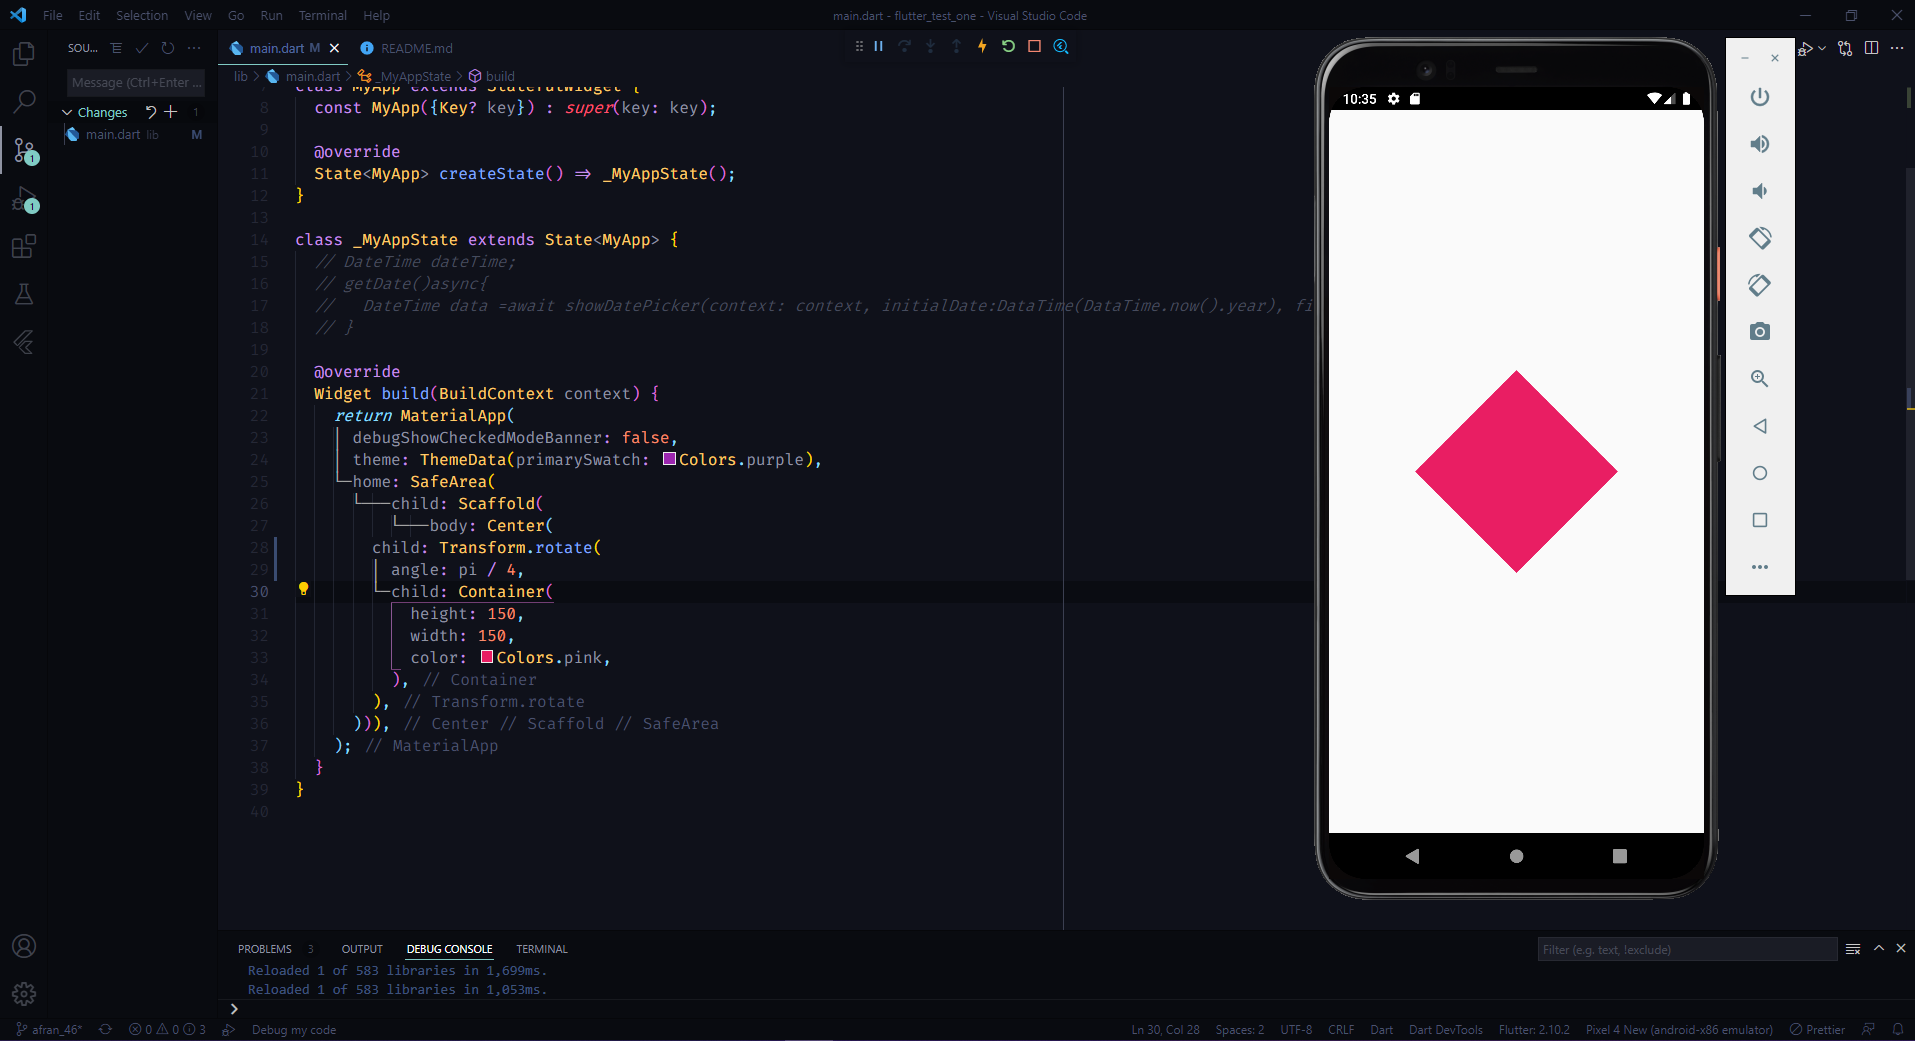
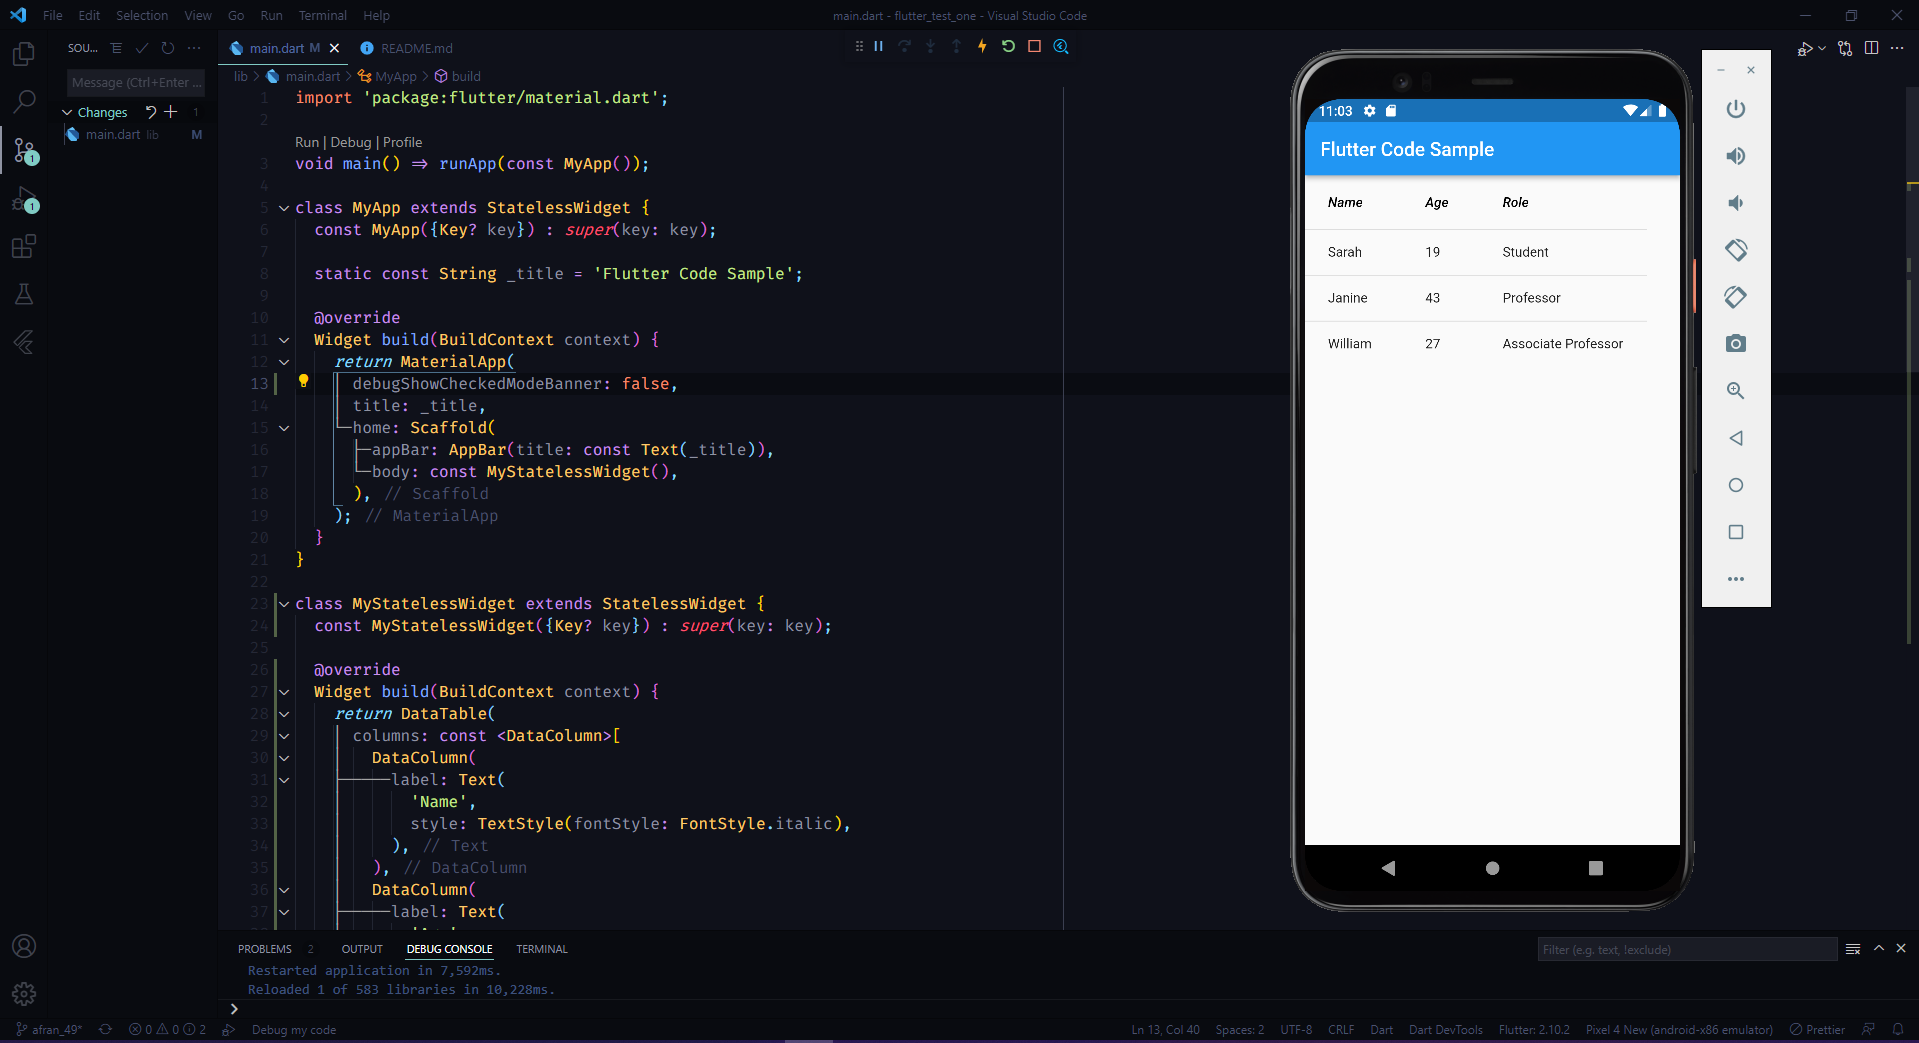
3.12

diff --git a/lib/main.dart b/lib/main.dart
@@ -10,6 +10,7 @@ class MyApp extends StatelessWidget {
   @override
   Widget build(BuildContext context) {
     return MaterialApp(
+      debugShowCheckedModeBanner: false,
       title: _title,
       home: Scaffold(
         appBar: AppBar(title: const Text(_title)),
@@ -19,4 +20,55 @@ class MyApp extends StatelessWidget {
   }
 }
 
+class MyStatelessWidget extends StatelessWidget {
+  const MyStatelessWidget({Key? key}) : super(key: key);
 
+  @override
+  Widget build(BuildContext context) {
+    return DataTable(
+      columns: const <DataColumn>[
+        DataColumn(
+          label: Text(
+            'Name',
+            style: TextStyle(fontStyle: FontStyle.italic),
+          ),
+        ),
+        DataColumn(
+          label: Text(
+            'Age',
+            style: TextStyle(fontStyle: FontStyle.italic),
+          ),
+        ),
+        DataColumn(
+          label: Text(
+            'Role',
+            style: TextStyle(fontStyle: FontStyle.italic),
+          ),
+        ),
+      ],
+      rows: const <DataRow>[
+        DataRow(
+          cells: <DataCell>[
+            DataCell(Text('Sarah')),
+            DataCell(Text('19')),
+            DataCell(Text('Student')),
+          ],
+        ),
+        DataRow(
+          cells: <DataCell>[
+            DataCell(Text('Janine')),
+            DataCell(Text('43')),
+            DataCell(Text('Professor')),
+          ],
+        ),
+        DataRow(
+          cells: <DataCell>[
+            DataCell(Text('William')),
+            DataCell(Text('27')),
+            DataCell(Text('Associate Professor')),
+          ],
+        ),
+      ],
+    );
+  }
+}
